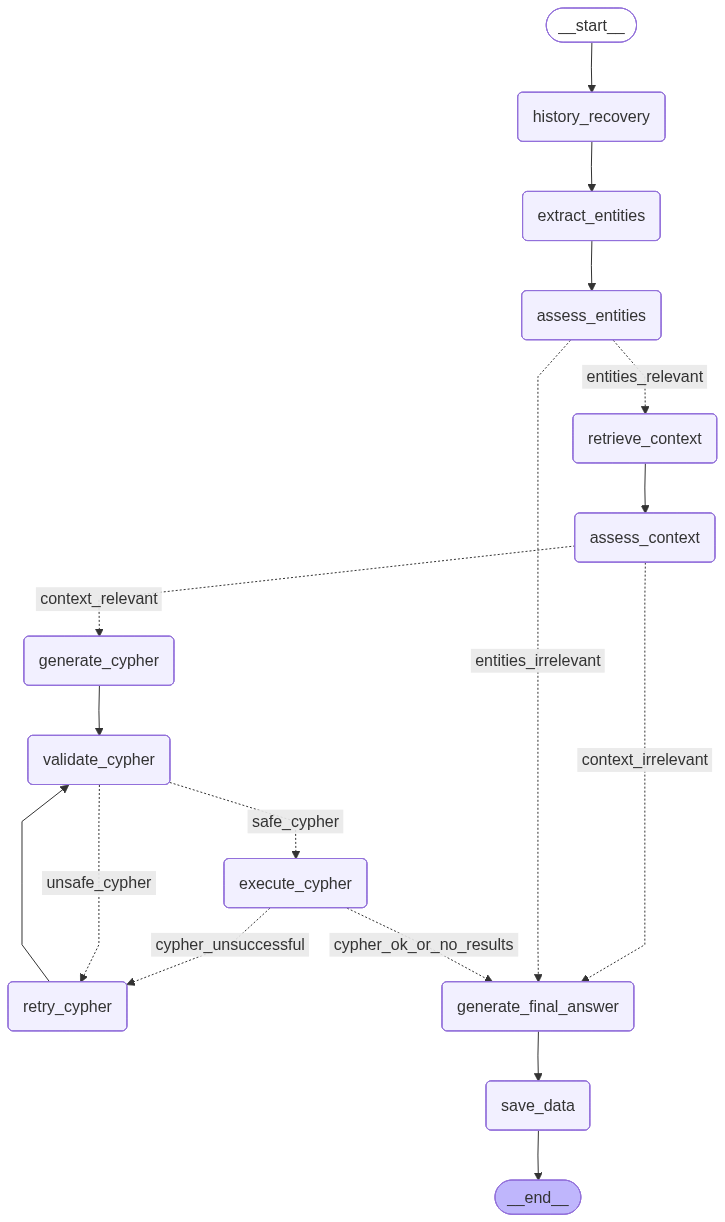
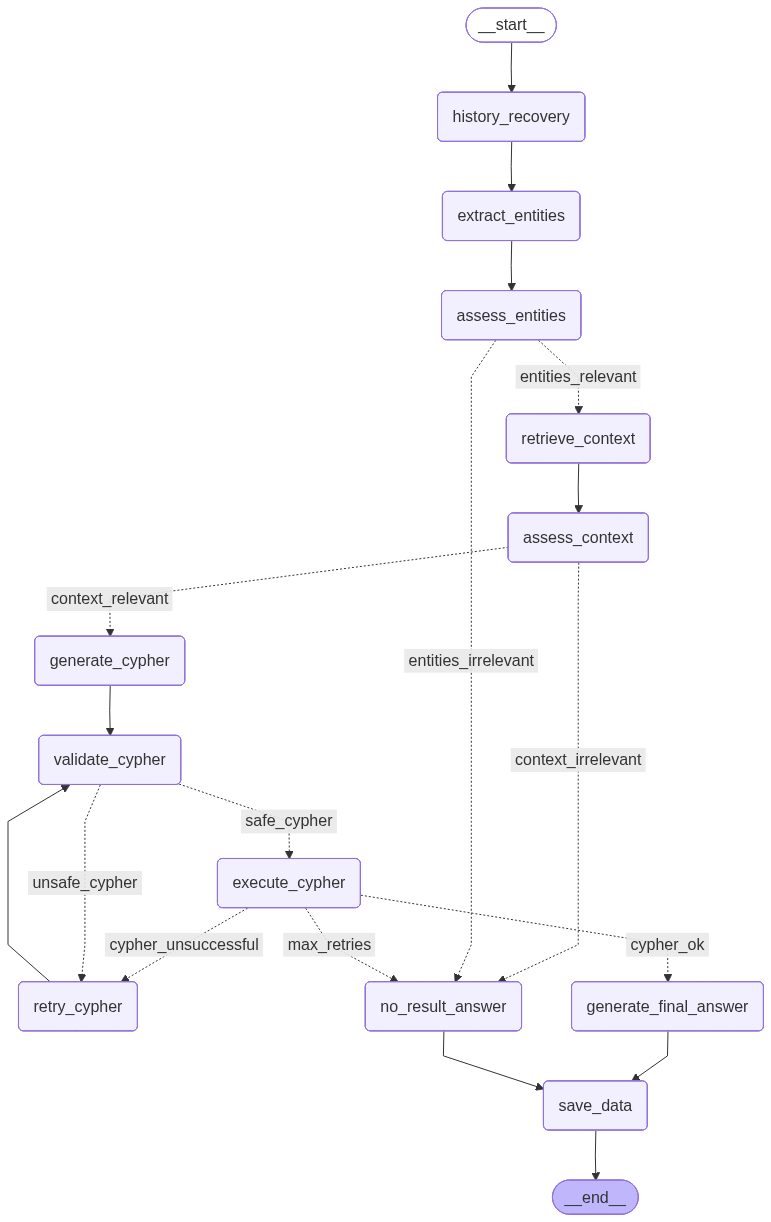
added answer for no result

diff --git a/agent_graph.py b/agent_graph.py
@@ -213,15 +213,15 @@ def cypher_execution(state: State)->State:
             "cypher_error": str(e),
         }
 
-MAX_RETRIES = 3
+MAX_RETRIES = 2
 
-def cypher_result_validation(state: State)->State:
+def cypher_result_validation(state: State)->str:
     """conditional node to check if there is any error by cypher execution"""
-    if state["cypher_error"] != "" and state["cypher_retry_count"] <= MAX_RETRIES :
+    if state["cypher_error"] != "" and state["cypher_retry_count"] < MAX_RETRIES :
         return "cypher_unsuccessful"
     if state["cypher_retry_count"] >= MAX_RETRIES:
-        state["cypher_result"] = "No data found in the graph."
-    return "cypher_ok_or_no_results"
+        return "max_retries"
+    return "cypher_ok"
 
 
 def cypher_retry(state:State)->State:
@@ -241,14 +241,22 @@ def cypher_retry(state:State)->State:
         "cypher_retry_count": state["cypher_retry_count"] + 1
     }
 
-
+def no_result_answer(state:State)->State:
+    return {
+        "output":"It seems that I am not able to answer your question :(\n"
+        "\nPossible solutions:\n"
+        "- Make sure that what you are asking for is relevant to **agricultural skills, occupations and jobs**, as I am only trained "
+        "for this. My information is based on the ESCO classification and Skillab job data.\n"
+        "- Try to specify the type of the entities you are looking for. For example, if you are trying to find about Agricultural Business Management, "
+        "specify that this is a skill and not an occupation."
+    }
 
 def final_answer_generation(state:State)->State:
     """generation of the final answer"""
     print("final result")
     output = get_final_answer(query=state["user_query"],cypher_query=state.get("cypher_query","No information available."),context=state.get("cypher_result","No information available."),history=state["messages"][-5:])
     print(output.content[0]["text"])
-    
+
 
     return {
         "output":output.content[0]["text"]
@@ -293,6 +301,7 @@ agent_graph.add_node("retry_cypher",cypher_retry)
 agent_graph.add_node("execute_cypher",cypher_execution)
 
 agent_graph.add_node("generate_final_answer",final_answer_generation)
+agent_graph.add_node("no_result_answer",no_result_answer)
 agent_graph.add_node("save_data",save)
 
 agent_graph.add_edge(START,"history_recovery")
@@ -305,7 +314,7 @@ agent_graph.add_conditional_edges(
     route_after_assessment,
     {
         "entities_relevant":"retrieve_context",
-        "entities_irrelevant":"generate_final_answer" 
+        "entities_irrelevant":"no_result_answer" 
     }
 )
 agent_graph.add_edge("retrieve_context","assess_context")
@@ -315,7 +324,7 @@ agent_graph.add_conditional_edges(
     route_after_context_assessment,
     {
         "context_relevant":"generate_cypher",
-        "context_irrelevant":"generate_final_answer"
+        "context_irrelevant":"no_result_answer"
     }
 )
 
@@ -335,11 +344,13 @@ agent_graph.add_conditional_edges(
     cypher_result_validation,
     {
         "cypher_unsuccessful":"retry_cypher",
-        "cypher_ok_or_no_results":"generate_final_answer"
+        "max_retries":"no_result_answer",
+        "cypher_ok":"generate_final_answer"
     }
 )
 
 agent_graph.add_edge("generate_final_answer","save_data")
+agent_graph.add_edge("no_result_answer","save_data")
 agent_graph.add_edge("save_data",END)
 
 app = agent_graph.compile()

diff --git a/evaluation/deep_eval_evaluation.py b/evaluation/deep_eval_evaluation.py
@@ -44,7 +44,7 @@ test_cases = [LLMTestCase(input=interaction["user_input"],
               for interaction in interactions_to_evaluate]
 
 
-eval_result = evaluate(test_cases=test_cases,metrics=[contextual_relevancy, answer_relevancy, faithfulness, clarity])
+eval_result = evaluate(test_cases=test_cases,metrics=[contextual_relevancy, answer_relevancy, faithfulness, clarity, fluency, consistency])
 #pprint(eval_result)
 
 with open("evaluation/evaluation_results.json","w",encoding="utf-8") as f:
